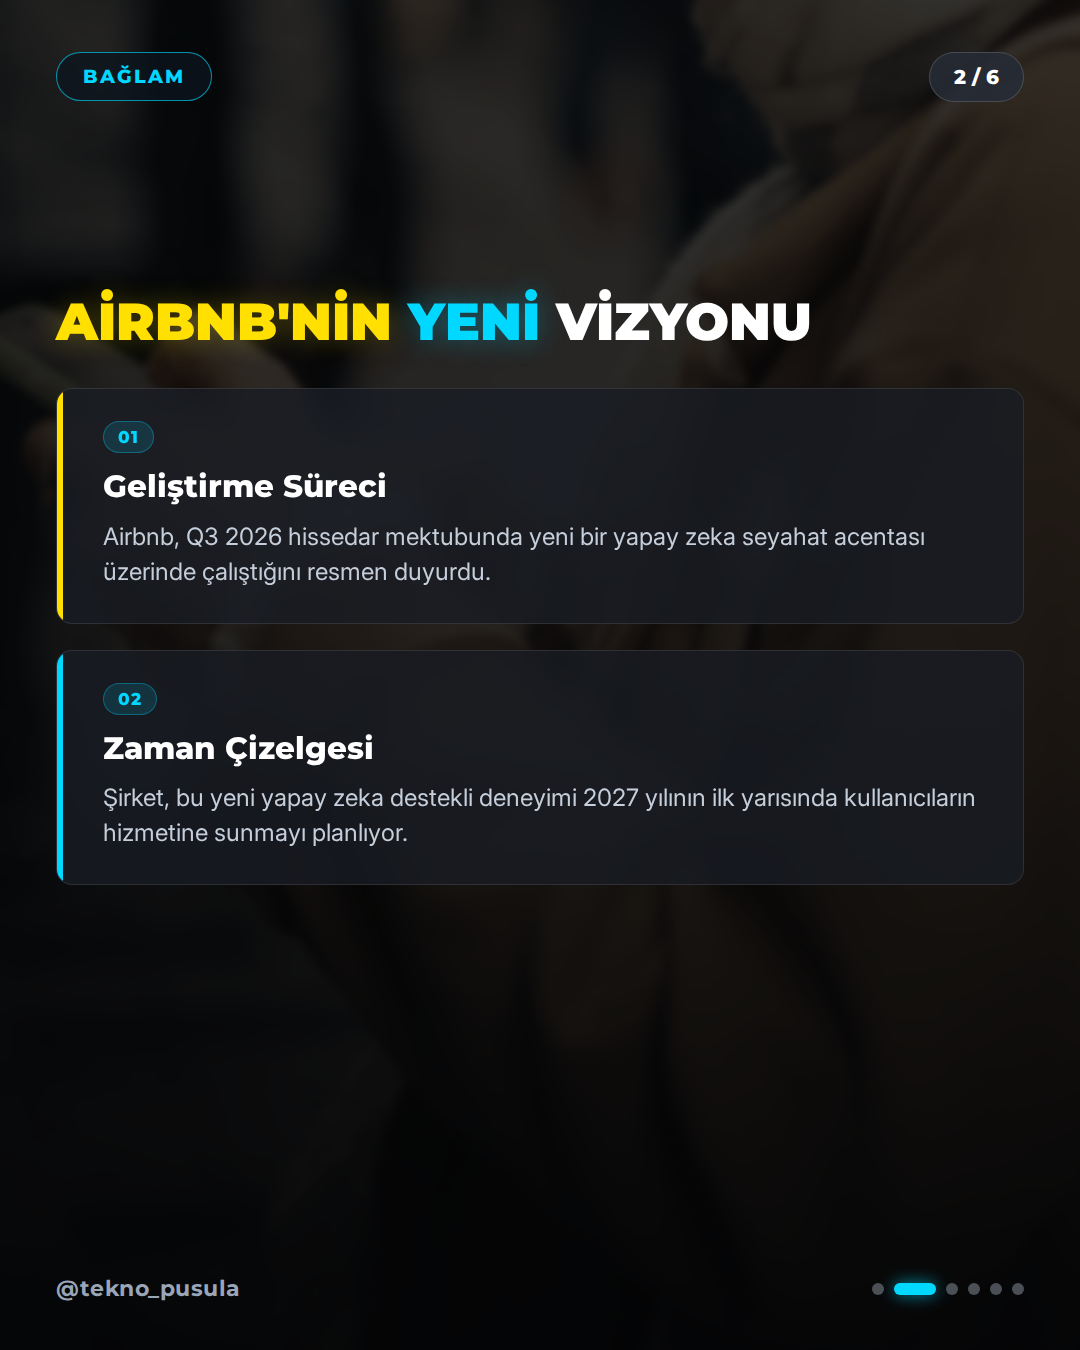
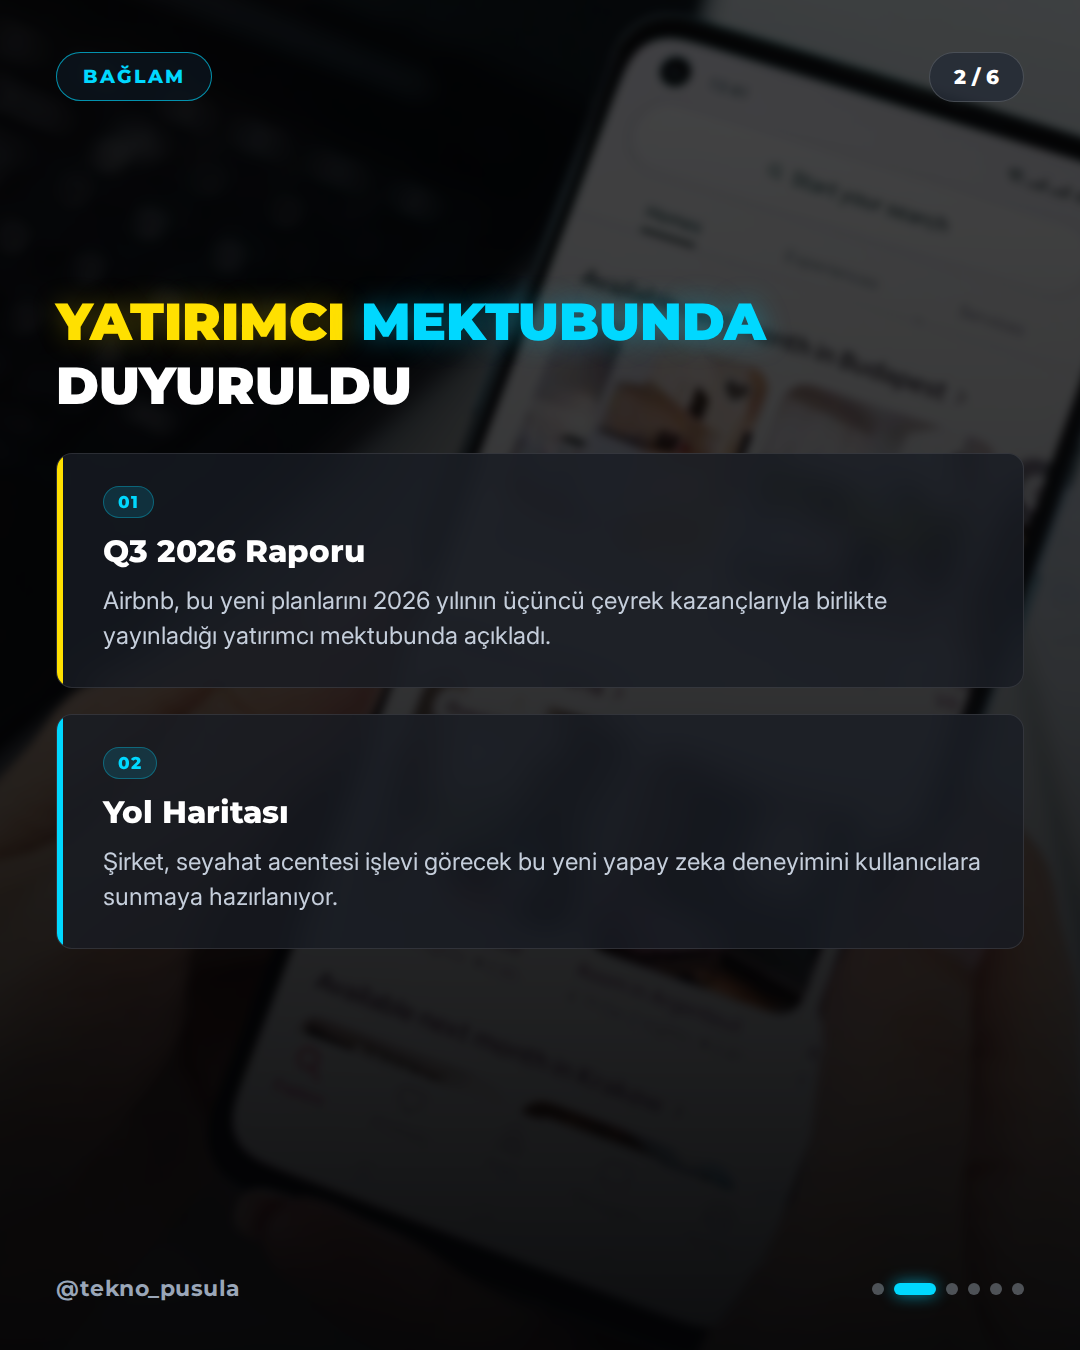
🤖 post: 2026-11-06 12:00 – Airbnb is threatening to launch an AI travel agent next year

diff --git a/output/2026-11-06/02-1200-airbnb-is-threatening-to-launch-an-ai-travel-age/verification.md b/output/2026-11-06/02-1200-airbnb-is-threatening-to-launch-an-ai-travel-age/verification.md
@@ -3,38 +3,52 @@
 **Haber:** Airbnb is threatening to launch an AI travel agent next year
 **Canonical URL:** https://www.engadget.com/2308832/airbnb-ai-travel-agent-2027-launch/
 **Kaynaklar:** Engadget, The Verge, TechCrunch, OpenAI News
-**Kontrol zamanı:** 2026-11-06T12:32:29+03:00
+**Kontrol zamanı:** 2026-11-06T12:43:20+03:00
 **Sonuç:** ✅ YAYINLANABİLİR
 
 ---
 
 ## İddia Bazlı Sonuçlar
 
-### 1. Airbnb, gelecek yıl bir yapay zeka seyahat acansı başlatmayı tehdit ediyor ve Q3 2026 kazançlarıyla birlikte yayınlanan hissedar mektubunda bu yeni yapay zeka ajanını geliştirdiğini açıkladı.
+### 1. Airbnb is developing a new kind of AI agent designed to serve as a travel agent.
 - **Karar:** ✅ `supported`
 - **Kanıtlar:**
   - [https://www.engadget.com/2308832/airbnb-ai-travel-agent-2027-launch/](https://www.engadget.com/2308832/airbnb-ai-travel-agent-2027-launch/)
-    > Airbnb is planning to expand the presence of artificial intelligence features on its platform even further. The company has revealed that it's developing a new kind of AI agent, which will be designed to serve as a travel agent of sorts, in its letter for shareholders that it released with its Q3 2026 earnings.
+    > The company has revealed that it's developing a new kind of AI agent, which will be designed to serve as a travel agent of sorts
+  - [https://www.engadget.com/2308832/airbnb-ai-travel-agent-2027-launch/](https://www.engadget.com/2308832/airbnb-ai-travel-agent-2027-launch/)
+    > The company has revealed that it's developing a new kind of AI agent, which will be designed to serve as a travel agent of sorts, in its letter for shareholders that it released with its Q3 2026 earnings.
 
-### 2. Yeni yapay zeka seyahat acansı, kullanıcının sorgusu etrafında gerçek zamanlı olarak haritalar, fotoğraflar, seyahat programları ve karşılaştırmalar içeren özel bir arayüz oluşturacak.
+### 2. Airbnb revealed its plans in its letter for shareholders released with its Q3 2026 earnings.
 - **Karar:** ✅ `supported`
 - **Kanıtlar:**
   - [https://www.engadget.com/2308832/airbnb-ai-travel-agent-2027-launch/](https://www.engadget.com/2308832/airbnb-ai-travel-agent-2027-launch/)
-    > The AI travel agent will be able to add maps, photos and even itineraries and comparisons to the interface in real time.
+    > in its letter for shareholders that it released with its Q3 2026 earnings.
+  - [https://www.engadget.com/2308832/airbnb-ai-travel-agent-2027-launch/](https://www.engadget.com/2308832/airbnb-ai-travel-agent-2027-launch/)
+    > The company has revealed that it's developing a new kind of AI agent, which will be designed to serve as a travel agent of sorts, in its letter for shareholders that it released with its Q3 2026 earnings.
 
-### 3. Airbnb, yeni yapay zeka deneyimini kullanıcıların kullanımına 2027 yılının ilk yarısında sunmaya başlayacak.
+### 3. Airbnb will start rolling out the new AI experience to users in the first half of 2027.
 - **Karar:** ✅ `supported`
 - **Kanıtlar:**
   - [https://www.engadget.com/2308832/airbnb-ai-travel-agent-2027-launch/](https://www.engadget.com/2308832/airbnb-ai-travel-agent-2027-launch/)
     > It will start rolling out the new experience to users sometime in the first half of 2027.
 
-### 4. Airbnb, birkaç ay önce doğal dil kullanarak sorgulama yapmanızı sağlayan yapay zeka araması ve ilanlar için yapay zeka açıklamaları başlattı.
+### 4. Airbnb launched AI search a couple of months ago, allowing inquiries using natural language.
 - **Karar:** ✅ `supported`
 - **Kanıtlar:**
   - [https://www.engadget.com/2308832/airbnb-ai-travel-agent-2027-launch/](https://www.engadget.com/2308832/airbnb-ai-travel-agent-2027-launch/)
+    > Just a couple of months ago, it launched AI search, which lets you make inquiries using natural language
+  - [https://www.engadget.com/2308832/airbnb-ai-travel-agent-2027-launch/](https://www.engadget.com/2308832/airbnb-ai-travel-agent-2027-launch/)
     > Just a couple of months ago, it launched AI search, which lets you make inquiries using natural language, as well as AI descriptions for listings.
 
-### 5. Geçmiş yıllarda Airbnb, uygulama içinde market teslimatları, araç kiralama, tekneler ve kayak ekipmanları gibi hizmetler başlattı.
+### 5. Airbnb launched AI descriptions for listings alongside its AI search feature.
+- **Karar:** ✅ `supported`
+- **Kanıtlar:**
+  - [https://www.engadget.com/2308832/airbnb-ai-travel-agent-2027-launch/](https://www.engadget.com/2308832/airbnb-ai-travel-agent-2027-launch/)
+    > as well as AI descriptions for listings.
+  - [https://www.engadget.com/2308832/airbnb-ai-travel-agent-2027-launch/](https://www.engadget.com/2308832/airbnb-ai-travel-agent-2027-launch/)
+    > Just a couple of months ago, it launched AI search, which lets you make inquiries using natural language, as well as AI descriptions for listings.
+
+### 6. Airbnb previously launched other services within its app including grocery deliveries and car rentals.
 - **Karar:** ✅ `supported`
 - **Kanıtlar:**
   - [https://www.engadget.com/2308832/airbnb-ai-travel-agent-2027-launch/](https://www.engadget.com/2308832/airbnb-ai-travel-agent-2027-launch/)
@@ -46,11 +60,12 @@
 
 | İddia | 1. Tur | 2. Tur | Nihai |
 |-------|--------|--------|-------|
-| Airbnb, gelecek yıl bir yapay zeka seyahat acansı başlatmayı | supported | supported | supported |
-| Yeni yapay zeka seyahat acansı, kullanıcının sorgusu etrafın | supported | supported | supported |
-| Airbnb, yeni yapay zeka deneyimini kullanıcıların kullanımın | supported | supported | supported |
-| Airbnb, birkaç ay önce doğal dil kullanarak sorgulama yapman | supported | supported | supported |
-| Geçmiş yıllarda Airbnb, uygulama içinde market teslimatları, | supported | supported | supported |
+| Airbnb is developing a new kind of AI agent designed to serv | supported | supported | supported |
+| Airbnb revealed its plans in its letter for shareholders rel | supported | supported | supported |
+| Airbnb will start rolling out the new AI experience to users | supported | supported | supported |
+| Airbnb launched AI search a couple of months ago, allowing i | supported | supported | supported |
+| Airbnb launched AI descriptions for listings alongside its A | supported | supported | supported |
+| Airbnb previously launched other services within its app inc | supported | supported | supported |
 
 ## Kaynak Metinleri
 

diff --git a/output/2026-11-06/02-1200-airbnb-is-threatening-to-launch-an-ai-travel-age/captions.md b/output/2026-11-06/02-1200-airbnb-is-threatening-to-launch-an-ai-travel-age/captions.md
@@ -2,62 +2,44 @@
 
 ## INSTAGRAM
 
-Airbnb'den seyahat planlamayı kökten değiştirecek bir adım! ✈ Airbnb, 2027 yılında kullanıcılarına özel bir yapay zeka seyahat acentası sunmaya hazırlanıyor. Artık karmaşık aramalarla uğraşmak yerine, ihtiyaçlarınızı doğal dille anlatıp size özel haritalar, fotoğraflar ve seyahat programları içeren bir arayüzle karşılaşacaksınız.
+Airbnb seyahat dünyasını kökten değiştirecek dev bir adım atıyor! 2027 yılının ilk yarısında kullanıma sunulacak yeni yapay zeka ajanı, tam anlamıyla kişisel bir seyahat acentesi gibi çalışacak. Doğal dil aramaları ve akıllı ilan açıklamalarıyla başlayan bu dönüşüm, tatil planlamayı bambaşka bir boyuta taşıyor. Sizce bir yapay zeka seyahat acentesi tatil planlama alışkanlıklarınızı nasıl değiştirecek? Teknoloji dünyasındaki gelişmeleri kaçırmamak için takipte kalın! Kaynak: Engadget, The Verge
 
-Sistem, seçenekleri sizin yerinize karşılaştırıp en kişiselleştirilmiş önerileri sunacak. Airbnb, bu adımla sadece konaklama değil, uçtan uca bir seyahat deneyimi vadediyor.
-
-Sizce yapay zeka destekli bir seyahat planlayıcısı, geleneksel acentaların yerini tamamen alabilir mi? Yorumlarda buluşalım!
-
-Kaynak: Engadget, The Verge
-
-#Airbnb #YapayZeka #Seyahat #Teknoloji #Gelecek #AI #TravelTech #Innovation #SeyahatPlanı #DijitalDönüşüm
+#Airbnb #YapayZeka #Seyahat #Teknoloji #Gelecek #AI #Travel #Innovation #TechNews
 
 ## TIKTOK
 
-Airbnb'nin 2027 planı belli oldu! 🤖 Artık seyahatlerinizi sizin yerinize planlayan bir yapay zeka acentası geliyor. Doğal dille konuşun, o size özel rotalar ve programlar çıkarsın. Geleneksel acentaların sonu mu geliyor? Kaynak: Engadget, The Verge
+Airbnb seyahat acentesi gibi çalışacak yapay zeka ajanını duyurdu! 2027'de hayatımıza girecek bu özellik tatil planlamayı tamamen değiştirecek. Sizce nasıl olacak? Kaynak: Engadget
 
-#Airbnb #YapayZeka #Seyahat #TeknolojiHaberleri #AI
+#Airbnb #YapayZeka #Seyahat #Teknoloji
 
 ## X
 
-Airbnb, 2027'de kendi yapay zeka seyahat acentasını başlatıyor! ✈ Kullanıcılar doğal dille arama yapacak, sistem ise kişiselleştirilmiş rotalar ve programlar oluşturacak. Geleneksel acentalar için büyük bir meydan okuma mı? Kaynak: Engadget, The Verge
+Airbnb, seyahat acentesi gibi çalışacak yeni yapay zeka ajanını 2027'nin ilk yarısında kullanıma sunmaya hazırlanıyor. Tatil planlama alışkanlıklarımız kökten değişiyor! Kaynak: Engadget, The Verge
 
 #Airbnb #YapayZeka
 
 ## THREADS
 
-Airbnb'nin Yeni Vizyonu: Yapay Zeka Seyahat Acentası ✈
+Airbnb'den Yeni Yapay Zeka Hamlesi
 
-Airbnb, 2027'de kullanıcılarına özel bir yapay zeka deneyimi sunmaya hazırlanıyor. Karmaşık arama süreçleri yerine, doğal dil desteğiyle size özel haritalar ve seyahat programları hazırlayan bir sistem geliyor.
+Airbnb, 2027'nin ilk yarısında seyahat acentesi gibi çalışacak yeni yapay zeka ajanını kullanıcılarla buluşturmaya hazırlanıyor. Doğal dil aramaları ve akıllı özelliklerle seyahat deneyimi baştan sona yenileniyor.
 
-Sizce yapay zeka destekli bir seyahat planlayıcısı, geleneksel acentaların yerini tamamen alabilir mi? 💭
+Sizce bu yapay zeka ajanı tatil planlarınızı nasıl etkiler? 💭
 
 Kaynak: Engadget, The Verge
 
-#YapayZeka
+#Airbnb
 
 ## LINKEDIN
 
-Airbnb, seyahat teknolojileri alanında stratejik bir hamle yaparak 2027 yılında devreye alacağı yapay zeka destekli seyahat acentasını duyurdu. Şirket, Q3 2026 hissedar mektubunda belirttiği bu vizyonla, kullanıcı deneyimini uçtan uca dijitalleştirmeyi hedefliyor.
-
-Sistem, doğal dil işleme yeteneklerini kullanarak kullanıcının ihtiyaçlarına göre gerçek zamanlı haritalar, karşılaştırmalı seçenekler ve özelleştirilmiş seyahat programları oluşturacak. Bu gelişme, Airbnb'nin sadece bir konaklama platformu olmaktan çıkıp, kapsamlı bir seyahat asistanına dönüşme sürecini hızlandırıyor.
-
-Sektörel olarak bu adım, kişiselleştirilmiş hizmetlerin seyahat endüstrisinde ne kadar kritik bir rekabet avantajı haline geldiğini bir kez daha kanıtlıyor.
-
-Sizce yapay zeka destekli bir seyahat planlayıcısı, geleneksel acentaların yerini tamamen alabilir mi?
+Seyahat teknolojileri hızla gelişmeye devam ediyor. Airbnb, Q3 2026 raporunda açıkladığı yeni stratejisiyle 2027'nin ilk yarısında seyahat acentesi işlevi görecek yapay zeka ajanını hayata geçirmeye hazırlanıyor. Doğal dil aramaları ve entegre hizmetlerle kullanıcı deneyimini en üst seviyeye çıkaran şirket, sektördeki standartları yeniden belirliyor. Yapay zekanın turizm ve seyahat sektöründeki bu entegrasyonu hakkında ne düşünüyorsunuz?
 
 Kaynak: Engadget, The Verge
 
-#Airbnb #YapayZeka #SeyahatTeknolojileri #DijitalDönüşüm #AI
+#Airbnb #YapayZeka #SeyahatTeknolojileri #İnovasyon
 
 ## FACEBOOK
 
-Airbnb'den seyahat planlamayı kökten değiştirecek bir adım! ✈ Airbnb, 2027 yılında kullanıcılarına özel bir yapay zeka seyahat acentası sunmaya hazırlanıyor.
+Airbnb seyahat dünyasında kuralları yeniden yazıyor! 2027 yılının ilk yarısında sunulacak yeni yapay zeka ajanı, kişisel bir seyahat acentesi gibi çalışarak tatil planlamasını ezber bozan bir deneyime dönüştürecek. Teknoloji dünyasındaki gelişmeleri kaçırmamak için takipte kalın! Kaynak: Engadget, The Verge
 
-Artık karmaşık aramalarla uğraşmak yerine, ihtiyaçlarınızı doğal dille anlatıp size özel haritalar, fotoğraflar ve seyahat programları içeren bir arayüzle karşılaşacaksınız. Sistem, seçenekleri sizin yerinize karşılaştırıp en kişiselleştirilmiş önerileri sunacak.
-
-Sizce yapay zeka destekli bir seyahat planlayıcısı, geleneksel acentaların yerini tamamen alabilir mi? Yorumlarda buluşalım!
-
-Kaynak: Engadget, The Verge
-
-#Airbnb #YapayZeka #Seyahat #Teknoloji #Gelecek
+#Airbnb #YapayZeka #Seyahat #Teknoloji
